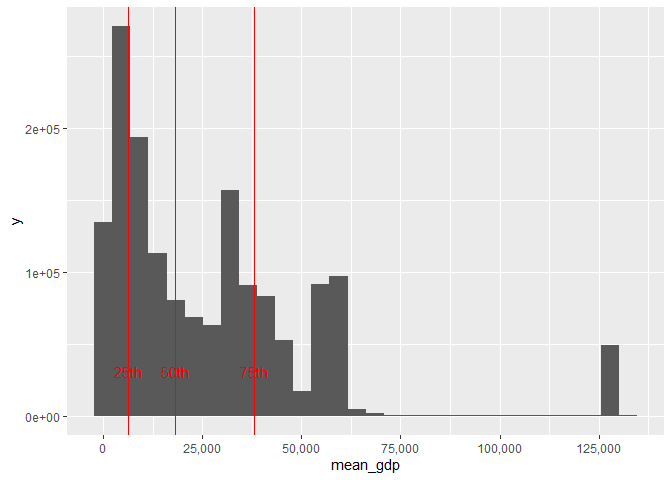
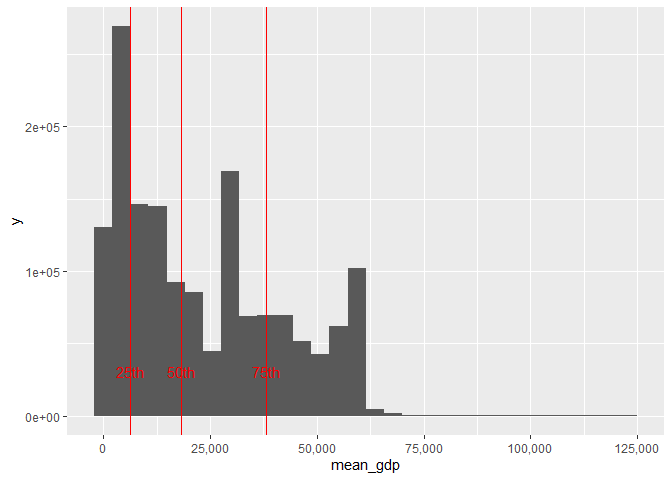
add country code to income data

diff --git a/MSc-Thesis-Econ/code/income-data.md b/MSc-Thesis-Econ/code/income-data.md
@@ -76,15 +76,17 @@ r_gdp_mean <- mean(r_gdp_sel, na.rm = TRUE)
 r_template <- rast(ext(r_gdp_mean), resolution = 0.1, crs = crs(r_gdp_mean))
 
 # Resample to 0.1°
-r_gdp_resampled <- resample(r_gdp_mean, r_template, method = "bilinear")
+r_gdp_resampled <- resample(r_gdp_mean, r_template, method = "average")
 
 # Convert to data.frame
 gdp_avg <- as.data.frame(r_gdp_resampled, xy = TRUE, na.rm = TRUE)
 names(gdp_avg)[3] <- "mean_gdp"
 ```
 
-Let’s see the distribution of the average GDP per capita. Only few
-outliers (50k observations) at avg_gdp \> \$125k.
+Let’s see the distribution of the average GDP per capita.
+
+Only few outliers (50k observations) at avg_gdp \> \$125k. \>\> SIBERIA
+REMOVED
 
 ``` r
 library(ggplot2)
@@ -93,11 +95,11 @@ library(ggplot2)
     ## Warning: package 'ggplot2' was built under R version 4.4.3
 
 ``` r
-# Remove outliers to calculate quantiles
-gdp_avg_clean <- gdp_avg[gdp_avg$mean_gdp < 125000, ]
+# Remove outliers
+gdp_avg <- gdp_avg[gdp_avg$mean_gdp < 125000, ]
 
 # Quartiles
-p <- quantile(gdp_avg_clean$mean_gdp, probs = c(0.25, 0.5, 0.75))
+p <- quantile(gdp_avg$mean_gdp, probs = c(0.25, 0.5, 0.75))
 
 # Histogram
 ggplot(gdp_avg, aes(mean_gdp)) +
@@ -132,16 +134,15 @@ Let’s plot average GDP per capita.
 
 ``` r
 ggplot(gdp_avg, aes(x=x, y=y, fill=mean_gdp)) +
-  geom_tile() +
+  geom_raster() +
   coord_fixed() +
-  scale_fill_viridis_c(name = "GDP per capita", limits = c(0,125000), oob = scales::squish)
+  scale_fill_viridis_c(name = "GDP per capita", limits = c(0,80000), oob = scales::squish)
 ```
+
+    ## Warning: Raster pixels are placed at uneven horizontal intervals and will be shifted
+    ## ℹ Consider using `geom_tile()` instead.
 
 ![](income-data_files/figure-gfm/unnamed-chunk-5-1.png)<!-- -->
-
-``` r
-#ggsave("test.png", units = "px", width = 2000, height = 1500)
-```
 
 Let’s plot quartiles on the map. It’s visible how using cell-level data,
 instead of country-level, we have within-country variation (and not
@@ -149,9 +150,12 @@ corresponding to regional administrative borders).
 
 ``` r
 ggplot(gdp_avg, aes(x=x, y=y, fill=gdp_quartile)) +
-  geom_tile() +
+  geom_raster() +
   coord_fixed()
 ```
+
+    ## Warning: Raster pixels are placed at uneven horizontal intervals and will be shifted
+    ## ℹ Consider using `geom_tile()` instead.
 
 ![](income-data_files/figure-gfm/unnamed-chunk-6-1.png)<!-- -->
 
@@ -162,7 +166,7 @@ summary(gdp_avg$mean_gdp)
 ```
 
     ##     Min.  1st Qu.   Median     Mean  3rd Qu.     Max. 
-    ##    449.2   6390.4  19316.2  26655.9  39673.9 132869.7
+    ##    449.2   6264.9  18203.1  23557.0  38083.3 123312.4
 
 Number of cells: 1,5 mln
 
@@ -174,7 +178,7 @@ Number of cells: 1,5 mln
 length(gdp_avg$mean_gdp)
 ```
 
-    ## [1] 1572666
+    ## [1] 1556394
 
 Number of cell in each income group.
 
@@ -184,7 +188,7 @@ table(gdp_avg$gdp_quartile)
 
     ## 
     ##     Q1     Q2     Q3     Q4 
-    ## 389525 376595 376245 430301
+    ## 396259 382180 401914 376041
 
 Info ORIGINAL raster
 
@@ -259,11 +263,72 @@ ggplot() +
   # Resampled
   geom_tile(data = df_resampled, aes(x = x, y = y, fill = mean), alpha = .5, color = "black", linewidth = .5) +
   scale_fill_viridis_c(name = "GDP resampled", option = "viridis", alpha = 0.6) +
-  
   coord_fixed()
 ```
 
 ![](income-data_files/figure-gfm/unnamed-chunk-15-1.png)<!-- -->
+
+### Assign Country Code
+
+Before exporting, let’s add country code to each cell.
+
+``` r
+library(rnaturalearth)
+```
+
+    ## Warning: package 'rnaturalearth' was built under R version 4.4.3
+
+``` r
+library(sf)
+```
+
+    ## Linking to GEOS 3.12.2, GDAL 3.9.3, PROJ 9.4.1; sf_use_s2() is TRUE
+
+``` r
+library(FNN)
+```
+
+    ## Warning: package 'FNN' was built under R version 4.4.3
+
+``` r
+# Get world countries
+world <- ne_countries(scale = "medium", returnclass = "sf")
+
+# Method 1: Direct spatial join (as before)
+coords_sf <- st_as_sf(
+  gdp_avg[, c("x", "y")], 
+  coords = c("x", "y"), 
+  crs = 4326
+)
+
+country_match <- st_join(coords_sf, world[c("iso_a3")])
+gdp_avg$country_code <- country_match$iso_a3
+
+# Method 2: For NA values (border/water cells), assign nearest country
+na_mask <- is.na(gdp_avg$country_code)
+message("Points without country assignment: ", sum(na_mask))
+```
+
+    ## Points without country assignment: 68540
+
+``` r
+if(sum(na_mask) > 0) {
+  # Get country centroids for nearest neighbor matching
+  country_centroids <- st_centroid(world)
+  country_coords <- st_coordinates(country_centroids)
+  
+  # Get coordinates of NA points
+  na_coords <- as.matrix(gdp_avg[na_mask, c("x", "y")])
+  
+  # Find nearest country for each NA point
+  nn_idx <- get.knnx(country_coords, na_coords, k = 1)$nn.index[, 1]
+  
+  # Assign nearest country codes to NA values
+  gdp_avg$country_code[na_mask] <- world$iso_a3[nn_idx]
+}
+```
+
+    ## Warning: st_centroid assumes attributes are constant over geometries
 
 Let’s export our final dataset in csv.
 
